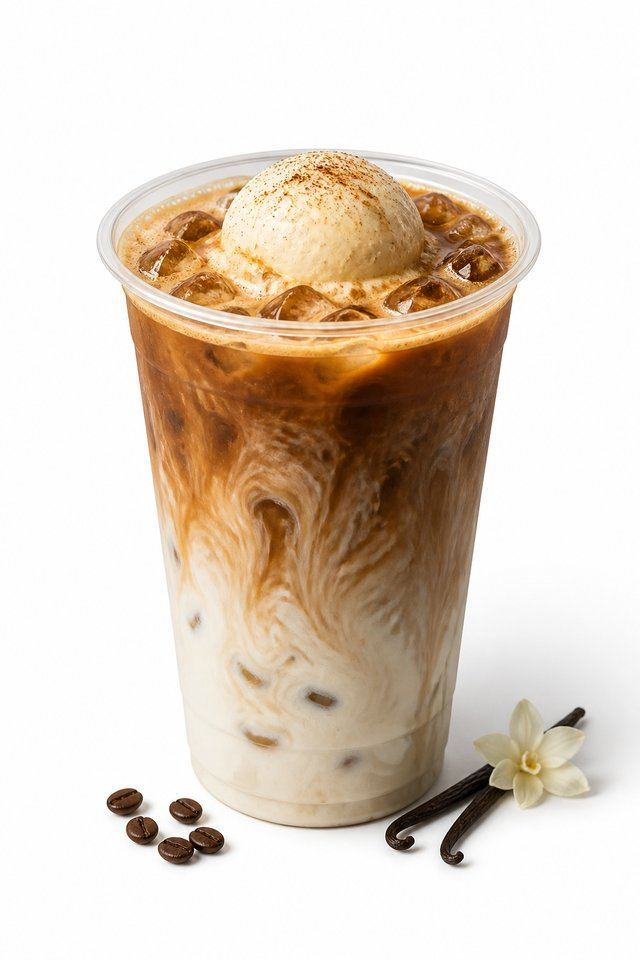
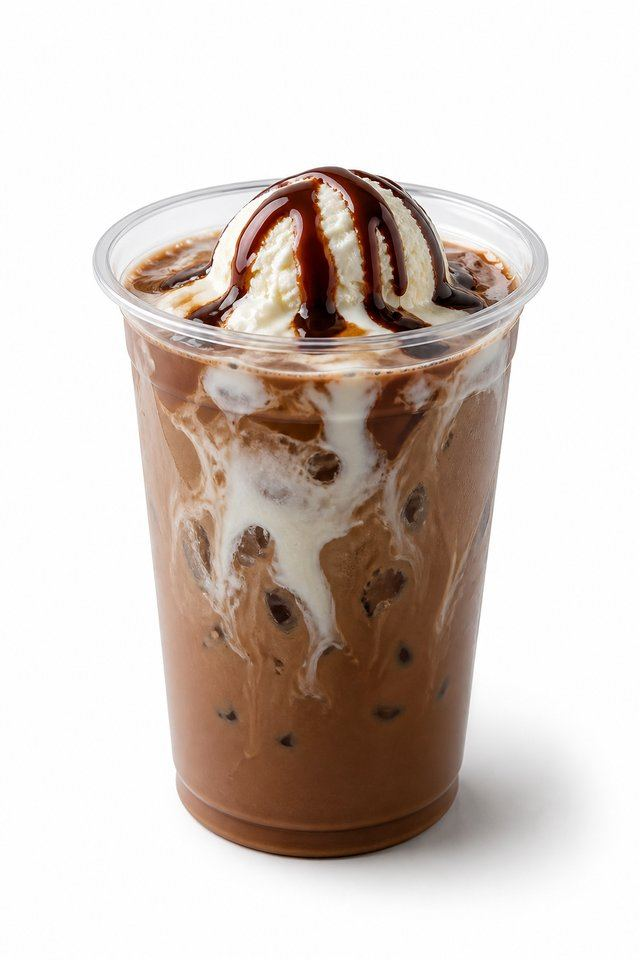
Add seasonal drinks lineup with white-studio photos
Nine new drinks plus updated mango chili matcha and chocolate glace; ASSET_VER 20260813-seasonal.

diff --git a/board.html b/board.html
@@ -20,7 +20,7 @@
   </div>
 
   <script>
-    const ASSET_VER = '20260812-v4';
+    const ASSET_VER = '20260813-seasonal';
     const MENU_DISCOUNT_PERCENT = 20;
     const PRELOAD_RADIUS = 2;
 
